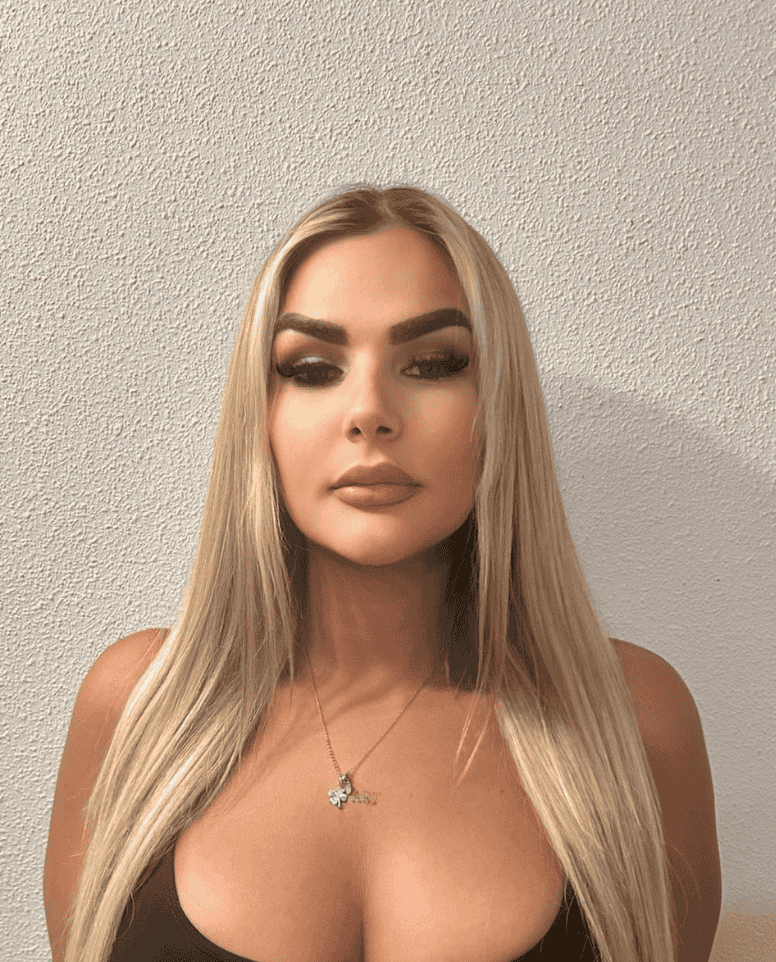
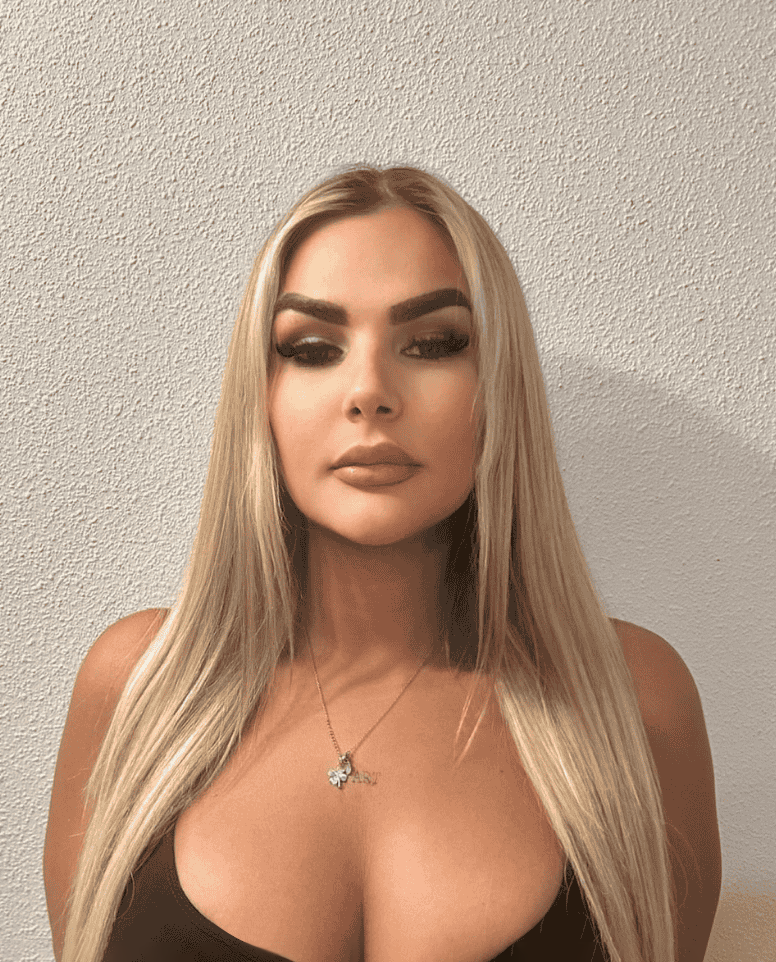
chore: update before-hair and after-hair images

diff --git a/app/page.tsx b/app/page.tsx
@@ -611,7 +611,7 @@ export default function Home() {
                     <img
                       src="/images/after-hair.png"
                       alt="After - Hair with extensions"
-                      className="w-full h-full object-cover"
+                      className="w-full h-full object-contain"
                       draggable={false}
                     />
                   </div>
@@ -624,7 +624,7 @@ export default function Home() {
                     <img
                       src="/images/before-hair.png"
                       alt="Before - Natural hair"
-                      className="w-full h-full object-cover"
+                      className="w-full h-full object-contain"
                       draggable={false}
                     />
                   </div>
